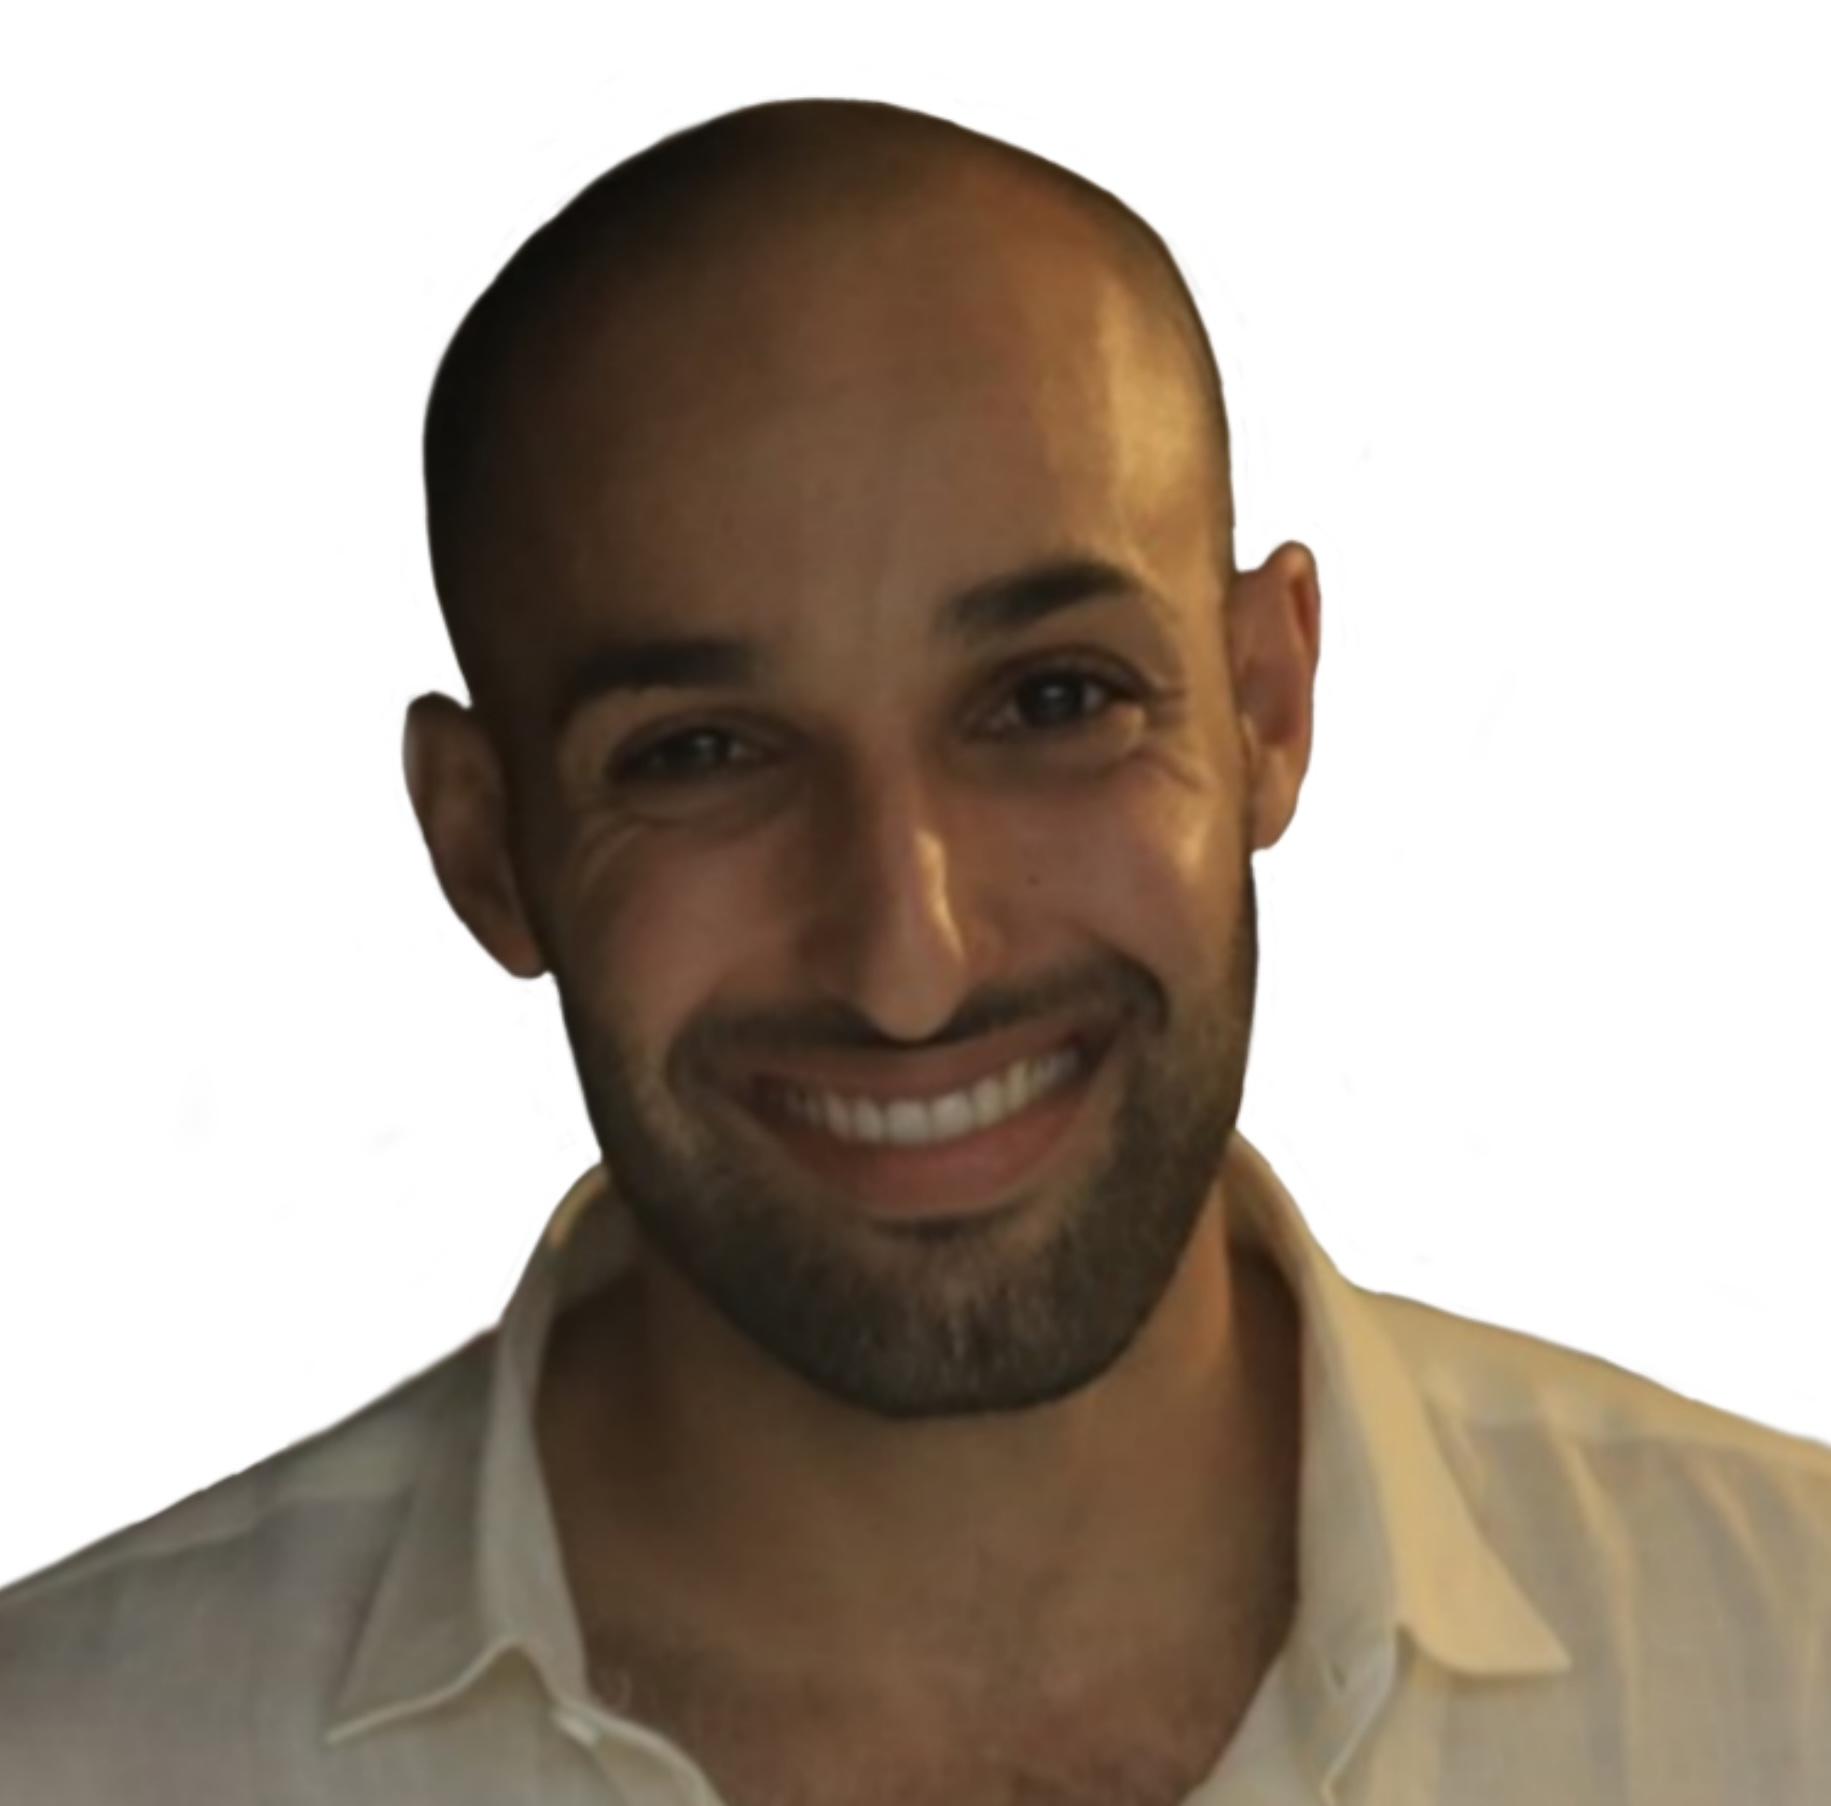
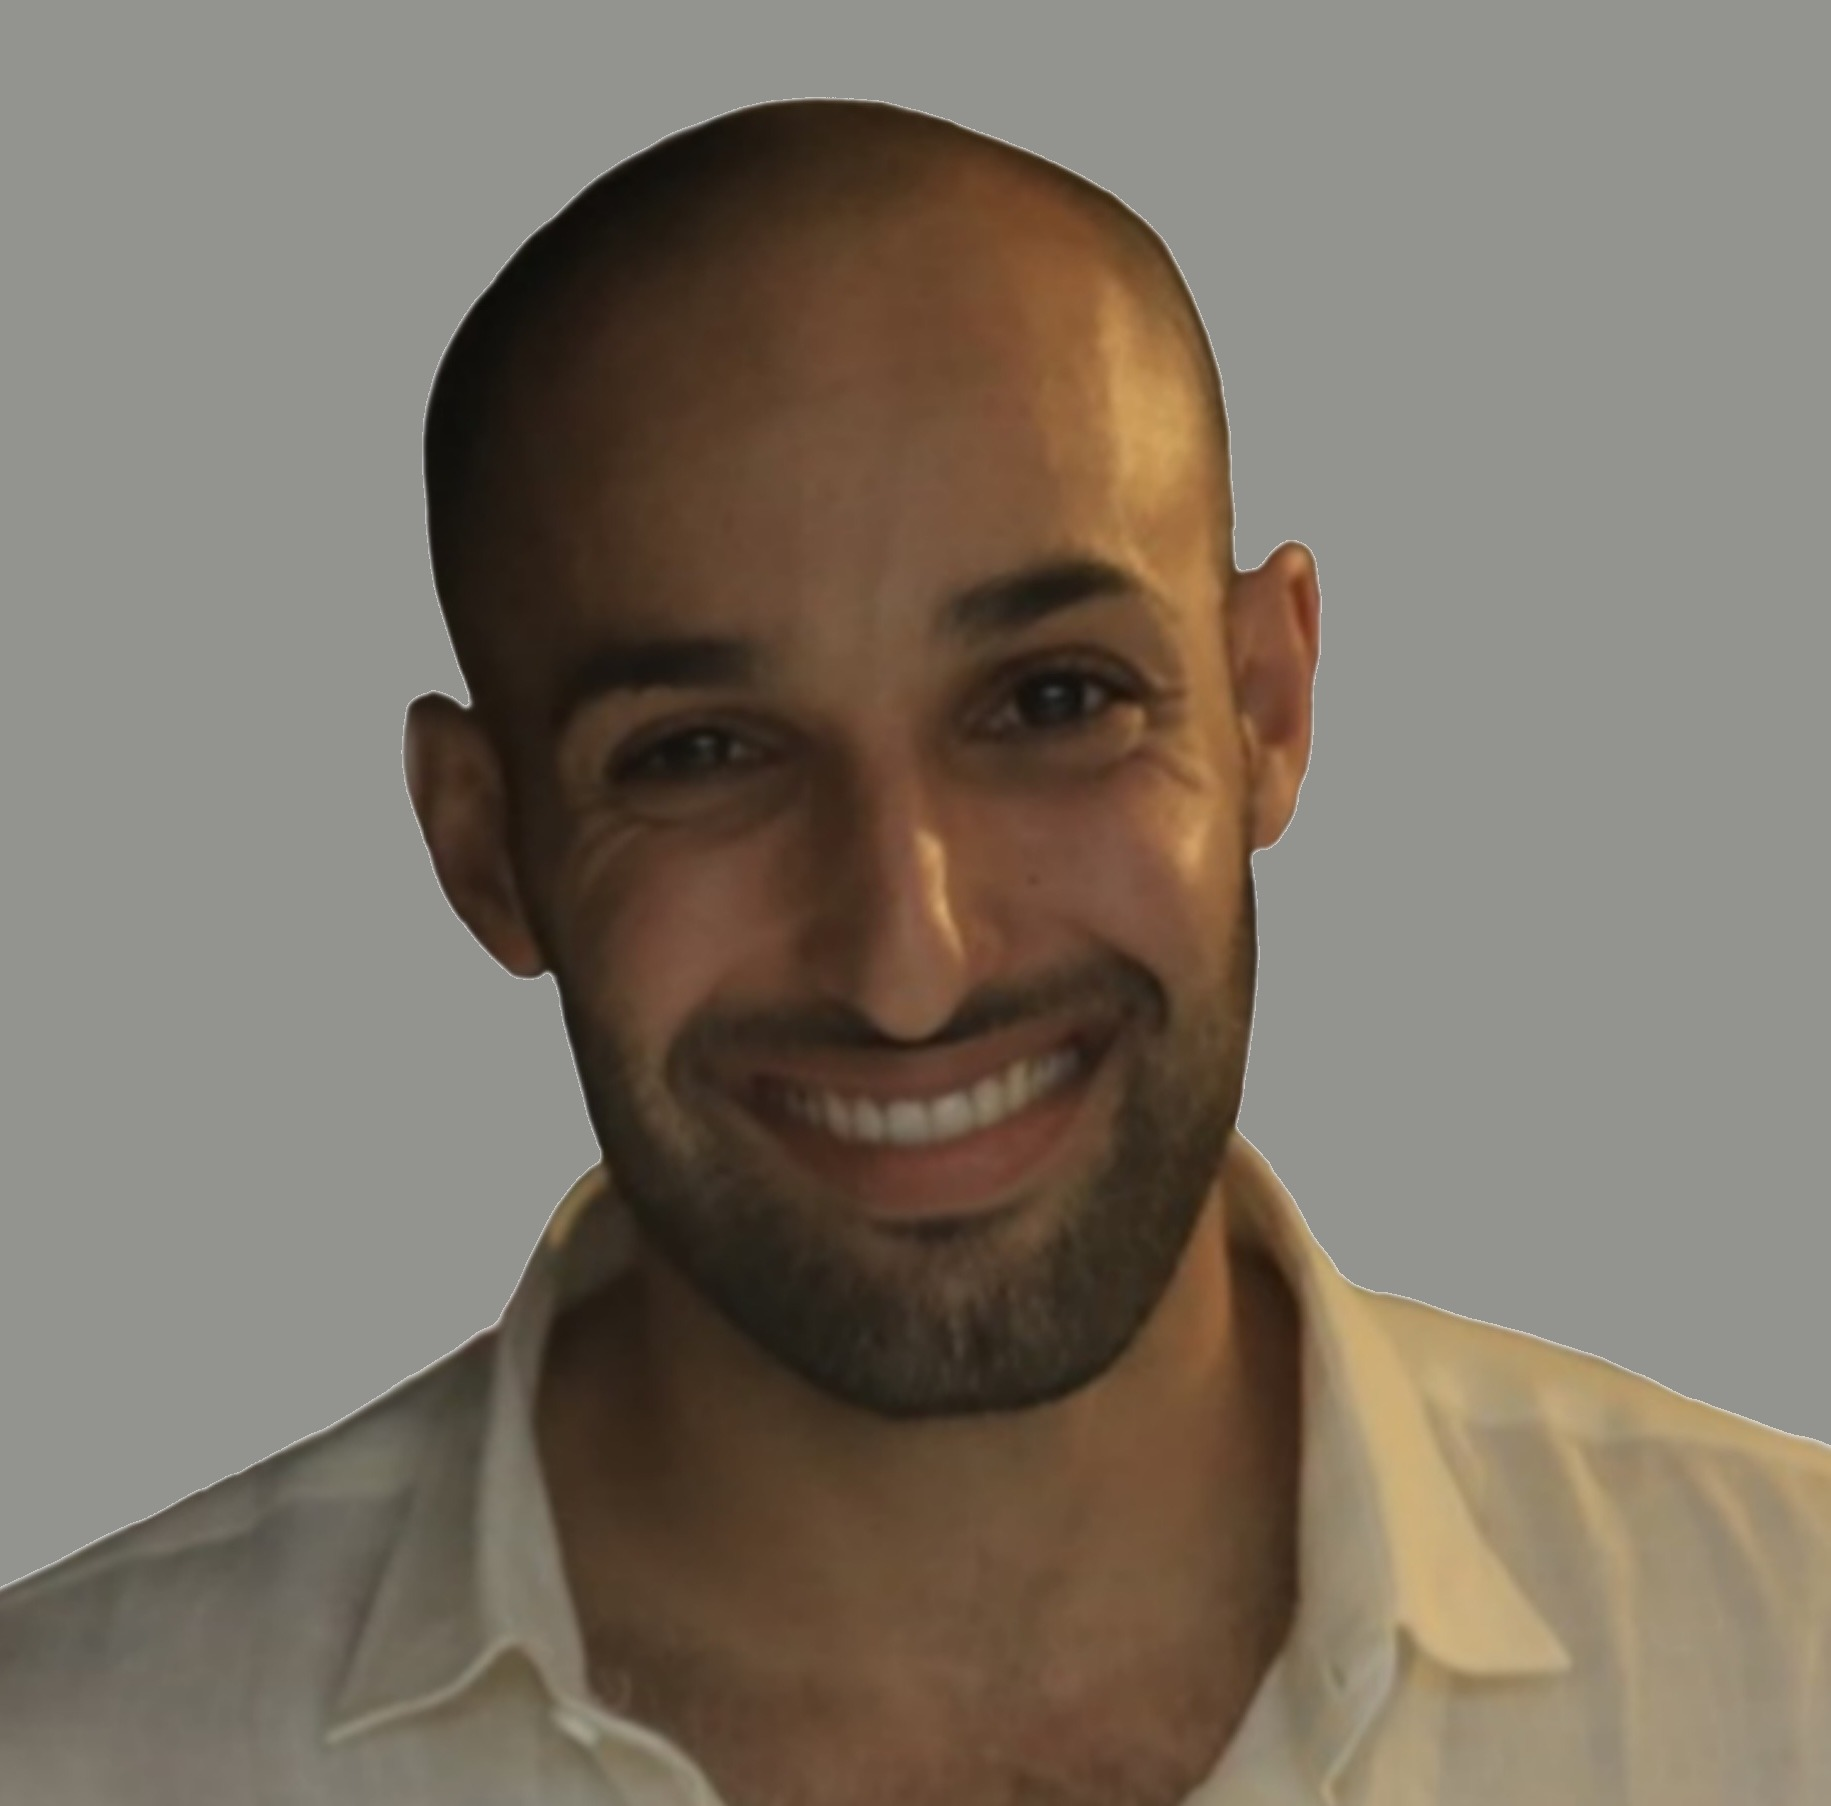
Final fix: original photos, object-cover, Dekel bg white→gray

diff --git a/components/n5/N5Team.tsx b/components/n5/N5Team.tsx
@@ -65,7 +65,7 @@ export default function N5Team() {
               <div className="relative w-36 h-36 md:w-44 md:h-44 rounded-full overflow-hidden border-2 border-[#F5A624]/30 bg-[#8a8a8a]"
                 style={{ boxShadow: '0 0 40px rgba(245,166,36,0.15)' }}>
                 {person.image ? (
-                  <Image src={person.image} alt={person.name} fill className="object-contain" />
+                  <Image src={person.image} alt={person.name} fill className="object-cover" />
                 ) : (
                   <div className="w-full h-full bg-[#1A1A1A] flex items-center justify-center">
                     <span className="text-5xl text-white/10 font-black select-none">{person.name[0]}</span>
